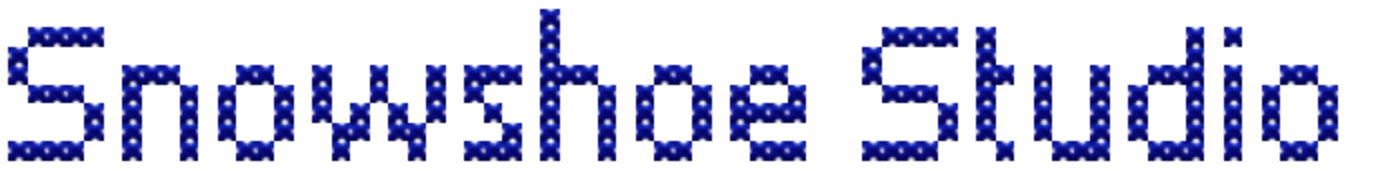
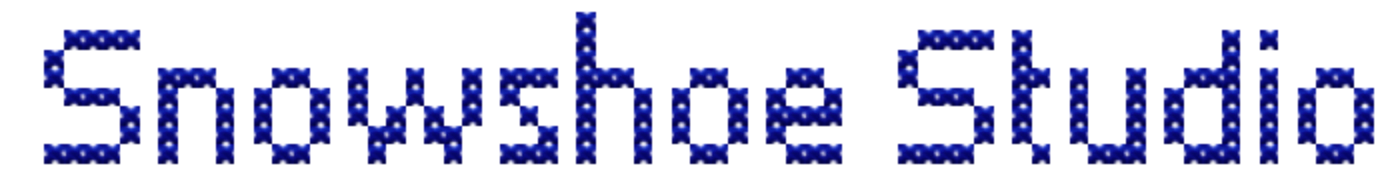
Resize #snowshoe-hare max-width: 150px to 80px and #cross-stitch-title max-width:150px to 175px

diff --git a/snowshoe_trial_II.css b/snowshoe_trial_II.css
@@ -13,7 +13,7 @@ html, body {
 }
 
 #snowshoe-hare {
-    max-width: 100px; /* Adjust size of the image */
+    max-width: 80px; /* Adjust size of the image */
     margin-bottom: 0px; /* Ensure there's minimal space between the image and the text */
     margin-top: 0px;
 }
@@ -27,7 +27,7 @@ html, body {
 }
 
 #cross-stitch-title {
-    max-width: 200px; /* Adjust size of the image */
+    max-width: 175px; /* Adjust size of the image */
     margin-bottom: 0px; /* Ensure there's minimal space between the image and the text */
     margin-top: 0px;
 }
